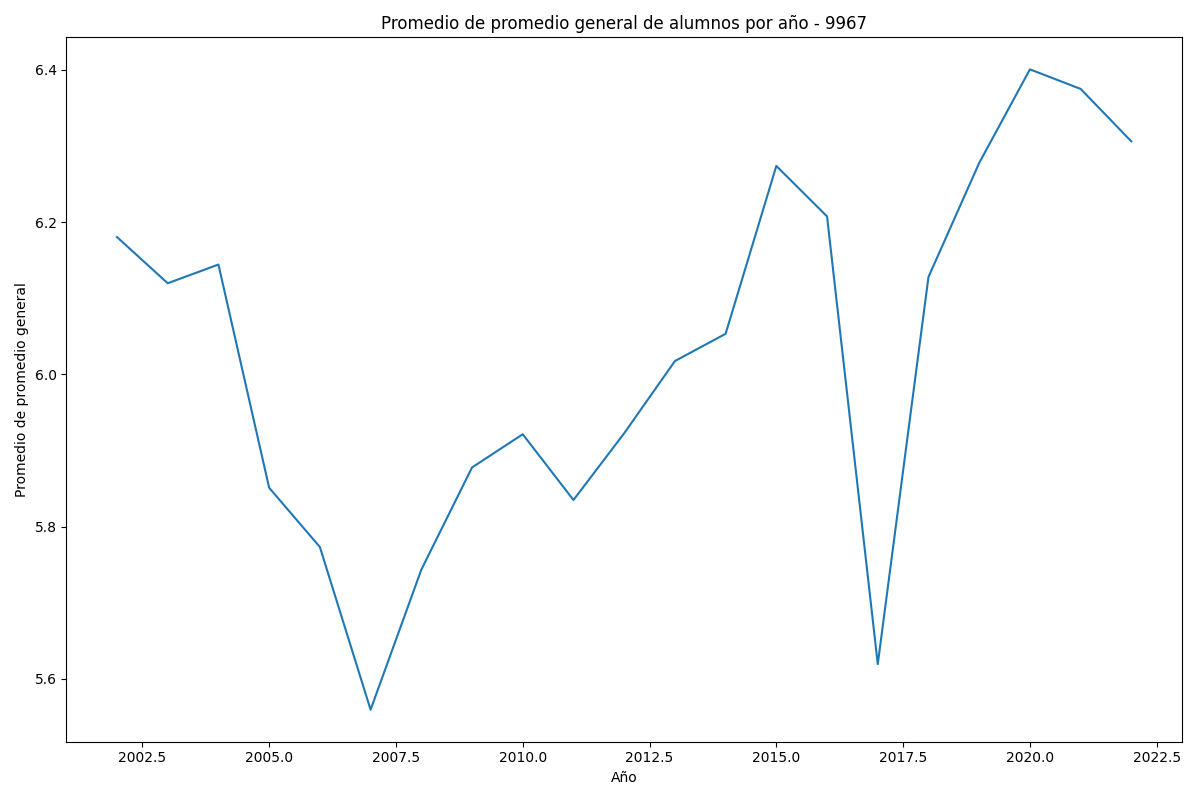
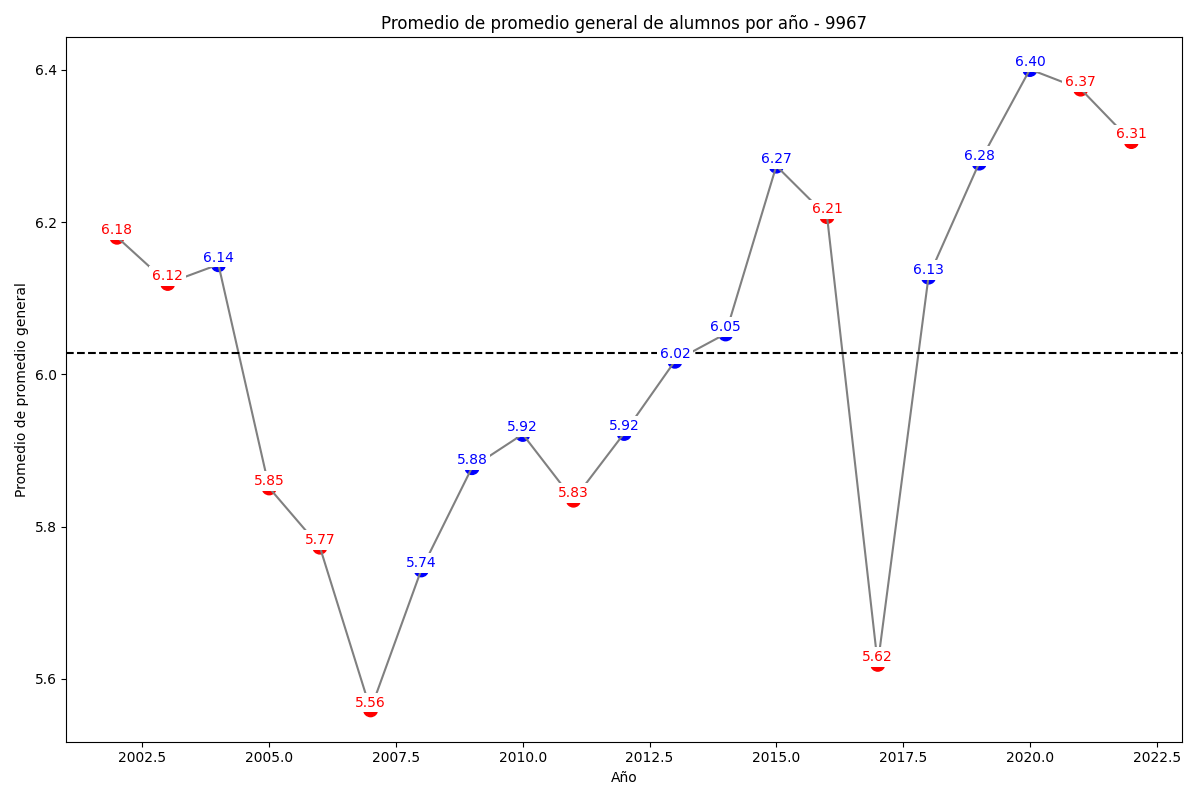
Funcion que grafica dos rendimientos por año indicando dos rgb de la escuela

diff --git a/Recursos/utilidades.py b/Recursos/utilidades.py
@@ -754,39 +754,90 @@ class Utilidades:
         # Definir los colores basados en el cambio del promedio
         colors = ['blue' if cambio == 1 else 'red' for cambio in rendimiento['CAMBIO_PROMEDIO']]
 
-        return rendimiento
+        # Grafico de linea de promedio de promedio general de alumnos por año
+        plt.figure(figsize=(12, 8))
+        sns.lineplot(
+            x='ANIO',
+            y='PROMEDIO_GENERAL_ANUAL',
+            data=rendimiento,
+            color='grey'  # Color de línea gris
+        )
 
-        # # Grafico de linea de promedio de promedio general de alumnos por año
-        # plt.figure(figsize=(12, 8))
-        # sns.lineplot(
-        #     x='ANIO',
-        #     y='PROMEDIO_GENERAL_ANUAL',
-        #     data=rendimiento,
-        #     color='grey'  # Color de línea gris
-        # )
+        # Plotear puntos con colores basados en el cambio del promedio
+        plt.scatter(
+            x=rendimiento['ANIO'],
+            y=rendimiento['PROMEDIO_GENERAL_ANUAL'],
+            color=colors,
+            s=100
+        )
 
-        # # Plotear puntos con colores basados en el cambio del promedio
-        # plt.scatter(
-        #     x=rendimiento['ANIO'],
-        #     y=rendimiento['PROMEDIO_GENERAL_ANUAL'],
-        #     color=colors,
-        #     s=100  # Tamaño de los puntos
-        # )
+        # Asignar el valor del promedio de promedio general a cada punto
+        for indx, promedio in enumerate(rendimiento['PROMEDIO_GENERAL_ANUAL']):
+            cambio = rendimiento['CAMBIO_PROMEDIO'].iloc[indx]
+            color = 'blue' if cambio == 1 else 'red'
+            plt.text(rendimiento['ANIO'].iloc[indx], promedio, f'{promedio:.2f}', color=color, ha='center', va='bottom', bbox=dict(facecolor='white', edgecolor='none', pad=2))
 
-        # # Asignar el valor del promedio de promedio general a cada punto
-        # for i in range(rendimiento.shape[0]):
-        #     plt.text(rendimiento.loc[i, 'ANIO'], rendimiento.loc[i, 'PROMEDIO_GENERAL_ANUAL'], 
-        #             round(rendimiento.loc[i, 'PROMEDIO_GENERAL_ANUAL'], 2), 
-        #             ha="center", va="bottom", fontsize=8)
+        # Titulos y etiquetas
+        plt.title(f'Promedio de promedio general de alumnos por año - {rolestablecimiento}')
+        plt.xlabel('Año')
+        plt.ylabel('Promedio escala 1.0 a 7.0')
 
-        # # Titulos y etiquetas
-        # plt.title(f'Promedio de promedio general de alumnos por año - {rolestablecimiento}')
-        # plt.xlabel('Año')
-        # plt.ylabel('Promedio de promedio general')
+        # Incorporar una linea horizontal en el promedio general 
+        plt.axhline(rendimiento['PROMEDIO_GENERAL_ANUAL'].mean(), color='black', linestyle='--', label='Promedio general')
 
-        # # Incorporar una linea horizontal en el promedio general 
-        # plt.axhline(rendimiento['PROMEDIO_GENERAL_ANUAL'].mean(), color='black', linestyle='--', label='Promedio general')
+        # Almacenar el grafico
+        plt.tight_layout()
+        plt.savefig('Estadisticas/Generales/Graficos/grafico_promedio_establecimiento'+str(rolestablecimiento)+'.png')
+    
+    def graficosComparativosPromedioEstablecimiento(self, dataframe, rol1, rol2):
+        rendimiento = dataframe
 
-        # # Almacenar el grafico
-        # plt.tight_layout()
-        # plt.savefig('Estadisticas/Generales/Graficos/grafico_promedio_establecimiento'+str(rolestablecimiento)+'.png')
+        # Filtrar datos por roles
+        rendimiento1 = rendimiento[rendimiento['ROL_ESTABLECIMIENTO'] == rol1]
+        rendimiento2 = rendimiento[rendimiento['ROL_ESTABLECIMIENTO'] == rol2]
+
+        # Calcular cambios de promedio para cada rol
+        rendimiento1['CAMBIO_PROMEDIO'] = [1 if i >= rendimiento1['PROMEDIO_GENERAL_ANUAL'].iloc[indx - 1] else 0 for indx, i in enumerate(rendimiento1['PROMEDIO_GENERAL_ANUAL'])]
+        rendimiento2['CAMBIO_PROMEDIO'] = [1 if i >= rendimiento2['PROMEDIO_GENERAL_ANUAL'].iloc[indx - 1] else 0 for indx, i in enumerate(rendimiento2['PROMEDIO_GENERAL_ANUAL'])]
+
+        # Definir los colores basados en el cambio del promedio para cada rol
+        colors1 = ['blue' if cambio == 1 else 'red' for cambio in rendimiento1['CAMBIO_PROMEDIO']]
+        colors2 = ['blue' if cambio == 1 else 'red' for cambio in rendimiento2['CAMBIO_PROMEDIO']]
+
+        # Graficar líneas de promedio general
+        plt.figure(figsize=(12, 8))
+        sns.lineplot(x='ANIO', y='PROMEDIO_GENERAL_ANUAL', data=rendimiento1, color='black', label=rol1)
+        sns.lineplot(x='ANIO', y='PROMEDIO_GENERAL_ANUAL', data=rendimiento2, color='black', label=rol2)
+
+        # Plotear puntos con colores basados en el cambio del promedio para cada rol
+        plt.scatter(x=rendimiento1['ANIO'], y=rendimiento1['PROMEDIO_GENERAL_ANUAL'], color=colors1, s=100)
+        plt.scatter(x=rendimiento2['ANIO'], y=rendimiento2['PROMEDIO_GENERAL_ANUAL'], color=colors2, s=100)
+
+        # Etiquetas para los puntos
+        for indx, promedio in enumerate(rendimiento1['PROMEDIO_GENERAL_ANUAL']):
+            cambio = rendimiento1['CAMBIO_PROMEDIO'].iloc[indx]
+            color = 'blue' if cambio == 1 else 'red'
+            plt.text(rendimiento1['ANIO'].iloc[indx], promedio, f'{promedio:.2f}', color=color, ha='center', va='bottom', bbox=dict(facecolor='white', edgecolor='none', pad=2))
+
+        for indx, promedio in enumerate(rendimiento2['PROMEDIO_GENERAL_ANUAL']):
+            cambio = rendimiento2['CAMBIO_PROMEDIO'].iloc[indx]
+            color = 'blue' if cambio == 1 else 'red'
+            plt.text(rendimiento2['ANIO'].iloc[indx], promedio, f'{promedio:.2f}', color=color, ha='center', va='bottom', bbox=dict(facecolor='white', edgecolor='none', pad=2))
+
+        # Titulos y etiquetas
+        plt.title(f'Promedio de promedio general de alumnos por año - {rol1} vs {rol2}')
+        plt.xlabel('Año')
+        plt.ylabel('Promedio escala 1.0 a 7.0')
+
+        # Incorporar líneas horizontales de promedio general
+        plt.axhline(rendimiento1['PROMEDIO_GENERAL_ANUAL'].mean(), color='blue', linestyle='--', label=f'Promedio general {rol1}')
+        plt.axhline(rendimiento2['PROMEDIO_GENERAL_ANUAL'].mean(), color='red', linestyle='--', label=f'Promedio general {rol2}')
+
+        # Agregar leyenda
+        plt.legend()
+
+        # Almacenar el grafico
+        plt.tight_layout()
+        plt.savefig('Estadisticas/Generales/Graficos/grafico_promedio_establecimiento'+str(rol1)+'_'+str(rol2)+'.png')
+
+        

diff --git a/Datos/rendimiento2002.py b/Datos/rendimiento2002.py
@@ -85,8 +85,9 @@ for ruta_promedio in util.routes_promedio:
 
 
 # ------------ CONSEGUIR REGISTROS DE merge_establecimientos EN QUE EL VALOR DE ROL_ESTABLECIMIENTO SEA 9967 ------------
-rol = 9967
-print(util.graficoPromedioEstablecimiento(dataframe=merge_establecimientos, rolestablecimiento=rol))
+rol1 = 9570
+rol2 = 9967
+util.graficosComparativosPromedioEstablecimiento(dataframe=merge_establecimientos, rol1=rol1, rol2=rol2)
 
 
 
